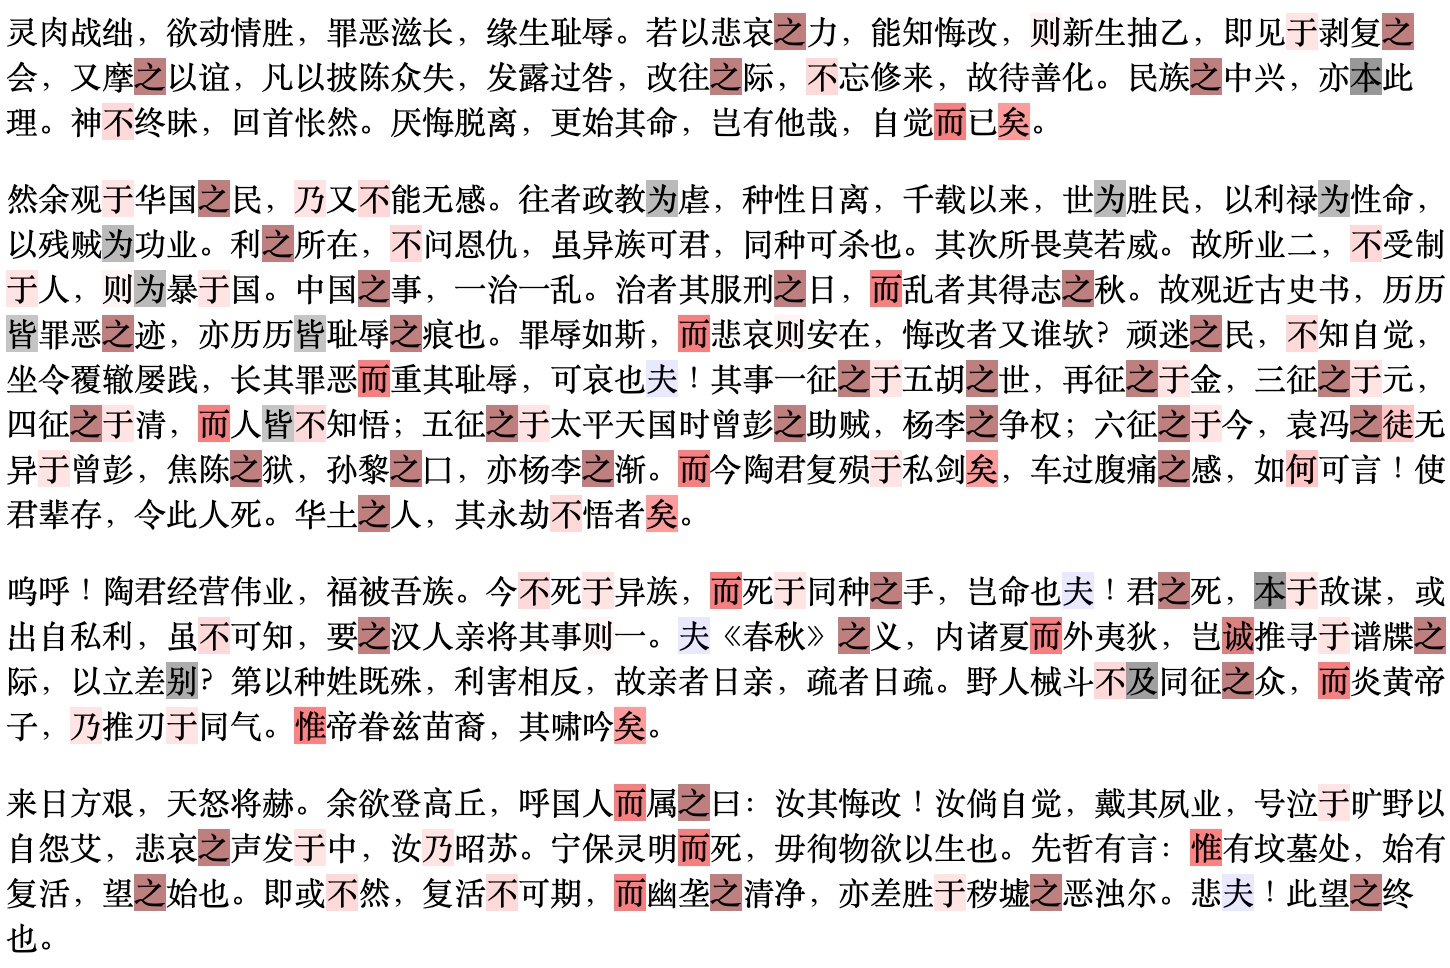
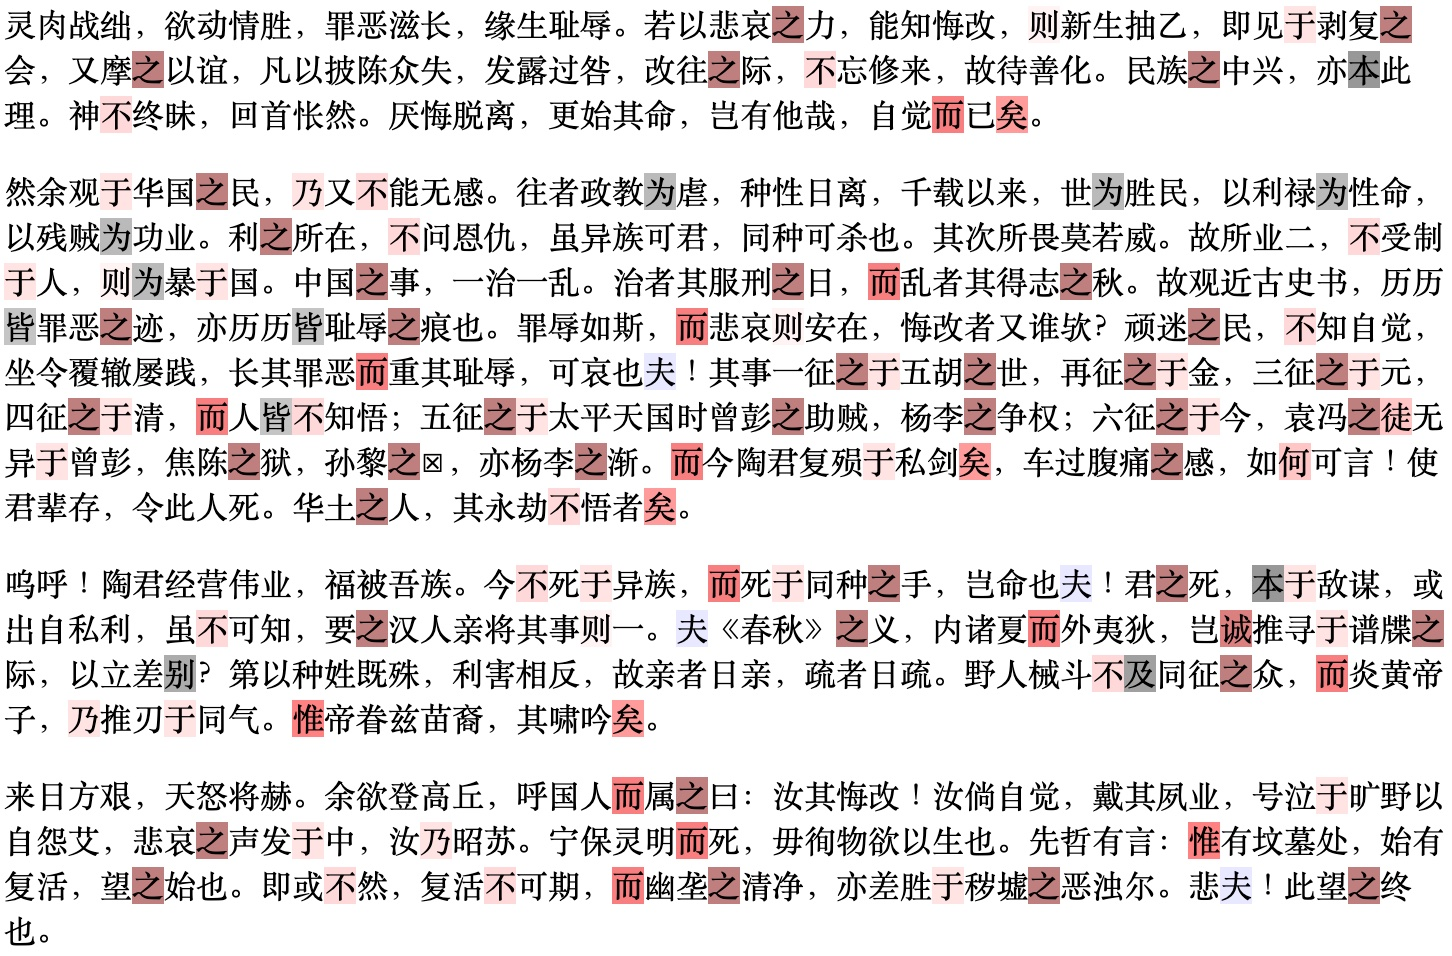
Substitute an unrecognizable character from 口 to ☒

Changed region(s): [[0.0, 0.182, 1.0, 0.546], [0.0, 0.5764, 1.0, 1.0], [0.0, 0.0, 0.9931, 0.1517]]

diff --git a/visualization/望华国篇.html b/visualization/望华国篇.html
@@ -5,7 +5,7 @@
         <meta charset="UTF-8">
     </head>
     <body>
-    <p>灵肉战绌，欲动情胜，罪恶滋长，缘生耻辱。若以悲哀<mark style="background-color:rgba(127, 0, 0, 0.5);">之</mark>力，能知悔改，<mark style="background-color:rgba(255, 233, 233, 0.5);">则</mark>新生抽乙，即见<mark style="background-color:rgba(255, 201, 201, 0.5);">于</mark>剥复<mark style="background-color:rgba(127, 0, 0, 0.5);">之</mark>会，又摩<mark style="background-color:rgba(127, 0, 0, 0.5);">之</mark>以谊，凡以披陈众失，发露过咎，改往<mark style="background-color:rgba(127, 0, 0, 0.5);">之</mark>际，<mark style="background-color:rgba(255, 180, 180, 0.5);">不</mark>忘修来，故待善化。民族<mark style="background-color:rgba(127, 0, 0, 0.5);">之</mark>中兴，亦<mark style="background-color:rgba(49, 49, 49, 0.5);">本</mark>此理。神<mark style="background-color:rgba(255, 180, 180, 0.5);">不</mark>终昧，回首怅然。厌悔脱离，更始其命，岂有他哉，自觉<mark style="background-color:rgba(241, 0, 0, 0.5);">而</mark>已<mark style="background-color:rgba(255, 56, 56, 0.5);">矣</mark>。</p><p></p><p>然余观<mark style="background-color:rgba(255, 201, 201, 0.5);">于</mark>华国<mark style="background-color:rgba(127, 0, 0, 0.5);">之</mark>民，<mark style="background-color:rgba(255, 201, 201, 0.5);">乃</mark>又<mark style="background-color:rgba(255, 180, 180, 0.5);">不</mark>能无感。往者政教<mark style="background-color:rgba(117, 117, 117, 0.5);">为</mark>虐，种性日离，千载以来，世<mark style="background-color:rgba(117, 117, 117, 0.5);">为</mark>胜民，以利禄<mark style="background-color:rgba(117, 117, 117, 0.5);">为</mark>性命，以残贼<mark style="background-color:rgba(117, 117, 117, 0.5);">为</mark>功业。利<mark style="background-color:rgba(127, 0, 0, 0.5);">之</mark>所在，<mark style="background-color:rgba(255, 180, 180, 0.5);">不</mark>问恩仇，虽异族可君，同种可杀也。其次所畏莫若威。故所业二，<mark style="background-color:rgba(255, 180, 180, 0.5);">不</mark>受制<mark style="background-color:rgba(255, 201, 201, 0.5);">于</mark>人，<mark style="background-color:rgba(255, 233, 233, 0.5);">则</mark><mark style="background-color:rgba(117, 117, 117, 0.5);">为</mark>暴<mark style="background-color:rgba(255, 201, 201, 0.5);">于</mark>国。中国<mark style="background-color:rgba(127, 0, 0, 0.5);">之</mark>事，一治一乱。治者其服刑<mark style="background-color:rgba(127, 0, 0, 0.5);">之</mark>日，<mark style="background-color:rgba(241, 0, 0, 0.5);">而</mark>乱者其得志<mark style="background-color:rgba(127, 0, 0, 0.5);">之</mark>秋。故观近古史书，历历<mark style="background-color:rgba(139, 139, 139, 0.5);">皆</mark>罪恶<mark style="background-color:rgba(127, 0, 0, 0.5);">之</mark>迹，亦历历<mark style="background-color:rgba(139, 139, 139, 0.5);">皆</mark>耻辱<mark style="background-color:rgba(127, 0, 0, 0.5);">之</mark>痕也。罪辱如斯，<mark style="background-color:rgba(241, 0, 0, 0.5);">而</mark>悲哀<mark style="background-color:rgba(255, 233, 233, 0.5);">则</mark>安在，悔改者又谁欤？顽迷<mark style="background-color:rgba(127, 0, 0, 0.5);">之</mark>民，<mark style="background-color:rgba(255, 180, 180, 0.5);">不</mark>知自觉，坐令覆辙屡践，长其罪恶<mark style="background-color:rgba(241, 0, 0, 0.5);">而</mark>重其耻辱，可哀也<mark style="background-color:rgba(209, 209, 255, 0.5);">夫</mark>！其事一征<mark style="background-color:rgba(127, 0, 0, 0.5);">之</mark><mark style="background-color:rgba(255, 201, 201, 0.5);">于</mark>五胡<mark style="background-color:rgba(127, 0, 0, 0.5);">之</mark>世，再征<mark style="background-color:rgba(127, 0, 0, 0.5);">之</mark><mark style="background-color:rgba(255, 201, 201, 0.5);">于</mark>金，三征<mark style="background-color:rgba(127, 0, 0, 0.5);">之</mark><mark style="background-color:rgba(255, 201, 201, 0.5);">于</mark>元，四征<mark style="background-color:rgba(127, 0, 0, 0.5);">之</mark><mark style="background-color:rgba(255, 201, 201, 0.5);">于</mark>清，<mark style="background-color:rgba(241, 0, 0, 0.5);">而</mark>人<mark style="background-color:rgba(139, 139, 139, 0.5);">皆</mark><mark style="background-color:rgba(255, 180, 180, 0.5);">不</mark>知悟；五征<mark style="background-color:rgba(127, 0, 0, 0.5);">之</mark><mark style="background-color:rgba(255, 201, 201, 0.5);">于</mark>太平天国时曾彭<mark style="background-color:rgba(127, 0, 0, 0.5);">之</mark>助贼，杨李<mark style="background-color:rgba(127, 0, 0, 0.5);">之</mark>争权；六征<mark style="background-color:rgba(127, 0, 0, 0.5);">之</mark><mark style="background-color:rgba(255, 201, 201, 0.5);">于</mark>今，袁冯<mark style="background-color:rgba(127, 0, 0, 0.5);">之</mark><mark style="background-color:rgba(255, 141, 141, 0.5);">徒</mark>无异<mark style="background-color:rgba(255, 201, 201, 0.5);">于</mark>曾彭，焦陈<mark style="background-color:rgba(127, 0, 0, 0.5);">之</mark>狱，孙黎<mark style="background-color:rgba(127, 0, 0, 0.5);">之</mark>囗，亦杨李<mark style="background-color:rgba(127, 0, 0, 0.5);">之</mark>渐。<mark style="background-color:rgba(241, 0, 0, 0.5);">而</mark>今陶君复殒<mark style="background-color:rgba(255, 201, 201, 0.5);">于</mark>私剑<mark style="background-color:rgba(255, 56, 56, 0.5);">矣</mark>，车过腹痛<mark style="background-color:rgba(127, 0, 0, 0.5);">之</mark>感，如<mark style="background-color:rgba(255, 141, 141, 0.5);">何</mark>可言！使君辈存，令此人死。华土<mark style="background-color:rgba(127, 0, 0, 0.5);">之</mark>人，其永劫<mark style="background-color:rgba(255, 180, 180, 0.5);">不</mark>悟者<mark style="background-color:rgba(255, 56, 56, 0.5);">矣</mark>。</p><p></p><p>呜呼！陶君经营伟业，福被吾族。今<mark style="background-color:rgba(255, 180, 180, 0.5);">不</mark>死<mark style="background-color:rgba(255, 201, 201, 0.5);">于</mark>异族，<mark style="background-color:rgba(241, 0, 0, 0.5);">而</mark>死<mark style="background-color:rgba(255, 201, 201, 0.5);">于</mark>同种<mark style="background-color:rgba(127, 0, 0, 0.5);">之</mark>手，岂命也<mark style="background-color:rgba(209, 209, 255, 0.5);">夫</mark>！君<mark style="background-color:rgba(127, 0, 0, 0.5);">之</mark>死，<mark style="background-color:rgba(49, 49, 49, 0.5);">本</mark><mark style="background-color:rgba(255, 201, 201, 0.5);">于</mark>敌谋，或出自私利，虽<mark style="background-color:rgba(255, 180, 180, 0.5);">不</mark>可知，要<mark style="background-color:rgba(127, 0, 0, 0.5);">之</mark>汉人亲将其事<mark style="background-color:rgba(255, 233, 233, 0.5);">则</mark>一。<mark style="background-color:rgba(209, 209, 255, 0.5);">夫</mark>《春秋》<mark style="background-color:rgba(127, 0, 0, 0.5);">之</mark>义，内诸夏<mark style="background-color:rgba(241, 0, 0, 0.5);">而</mark>外夷狄，岂<mark style="background-color:rgba(183, 0, 0, 0.5);">诚</mark>推寻<mark style="background-color:rgba(255, 201, 201, 0.5);">于</mark>谱牒<mark style="background-color:rgba(127, 0, 0, 0.5);">之</mark>际，以立差<mark style="background-color:rgba(90, 90, 90, 0.5);">别</mark>？第以种姓既殊，利害相反，故亲者日亲，疏者日疏。野人械斗<mark style="background-color:rgba(255, 180, 180, 0.5);">不</mark><mark style="background-color:rgba(66, 66, 66, 0.5);">及</mark>同征<mark style="background-color:rgba(127, 0, 0, 0.5);">之</mark>众，<mark style="background-color:rgba(241, 0, 0, 0.5);">而</mark>炎黄帝子，<mark style="background-color:rgba(255, 201, 201, 0.5);">乃</mark>推刃<mark style="background-color:rgba(255, 201, 201, 0.5);">于</mark>同气。<mark style="background-color:rgba(255, 5, 5, 0.5);">惟</mark>帝眷兹苗裔，其啸吟<mark style="background-color:rgba(255, 56, 56, 0.5);">矣</mark>。</p><p></p><p>来日方艰，天怒将赫。余欲登高丘，呼国人<mark style="background-color:rgba(241, 0, 0, 0.5);">而</mark>属<mark style="background-color:rgba(127, 0, 0, 0.5);">之</mark>曰：汝其悔改！汝倘自觉，戴其夙业，号泣<mark style="background-color:rgba(255, 201, 201, 0.5);">于</mark>旷野以自怨艾，悲哀<mark style="background-color:rgba(127, 0, 0, 0.5);">之</mark>声发<mark style="background-color:rgba(255, 201, 201, 0.5);">于</mark>中，汝<mark style="background-color:rgba(255, 201, 201, 0.5);">乃</mark>昭苏。宁保灵明<mark style="background-color:rgba(241, 0, 0, 0.5);">而</mark>死，毋徇物欲以生也。先哲有言：<mark style="background-color:rgba(255, 5, 5, 0.5);">惟</mark>有坟墓处，始有复活，望<mark style="background-color:rgba(127, 0, 0, 0.5);">之</mark>始也。即或<mark style="background-color:rgba(255, 180, 180, 0.5);">不</mark>然，复活<mark style="background-color:rgba(255, 180, 180, 0.5);">不</mark>可期，<mark style="background-color:rgba(241, 0, 0, 0.5);">而</mark>幽垄<mark style="background-color:rgba(127, 0, 0, 0.5);">之</mark>清净，亦差胜<mark style="background-color:rgba(255, 201, 201, 0.5);">于</mark>秽墟<mark style="background-color:rgba(127, 0, 0, 0.5);">之</mark>恶浊尔。悲<mark style="background-color:rgba(209, 209, 255, 0.5);">夫</mark>！此望<mark style="background-color:rgba(127, 0, 0, 0.5);">之</mark>终也。</p>
+    <p>灵肉战绌，欲动情胜，罪恶滋长，缘生耻辱。若以悲哀<mark style="background-color:rgba(127, 0, 0, 0.5);">之</mark>力，能知悔改，<mark style="background-color:rgba(255, 233, 233, 0.5);">则</mark>新生抽乙，即见<mark style="background-color:rgba(255, 201, 201, 0.5);">于</mark>剥复<mark style="background-color:rgba(127, 0, 0, 0.5);">之</mark>会，又摩<mark style="background-color:rgba(127, 0, 0, 0.5);">之</mark>以谊，凡以披陈众失，发露过咎，改往<mark style="background-color:rgba(127, 0, 0, 0.5);">之</mark>际，<mark style="background-color:rgba(255, 180, 180, 0.5);">不</mark>忘修来，故待善化。民族<mark style="background-color:rgba(127, 0, 0, 0.5);">之</mark>中兴，亦<mark style="background-color:rgba(49, 49, 49, 0.5);">本</mark>此理。神<mark style="background-color:rgba(255, 180, 180, 0.5);">不</mark>终昧，回首怅然。厌悔脱离，更始其命，岂有他哉，自觉<mark style="background-color:rgba(241, 0, 0, 0.5);">而</mark>已<mark style="background-color:rgba(255, 56, 56, 0.5);">矣</mark>。</p><p></p><p>然余观<mark style="background-color:rgba(255, 201, 201, 0.5);">于</mark>华国<mark style="background-color:rgba(127, 0, 0, 0.5);">之</mark>民，<mark style="background-color:rgba(255, 201, 201, 0.5);">乃</mark>又<mark style="background-color:rgba(255, 180, 180, 0.5);">不</mark>能无感。往者政教<mark style="background-color:rgba(117, 117, 117, 0.5);">为</mark>虐，种性日离，千载以来，世<mark style="background-color:rgba(117, 117, 117, 0.5);">为</mark>胜民，以利禄<mark style="background-color:rgba(117, 117, 117, 0.5);">为</mark>性命，以残贼<mark style="background-color:rgba(117, 117, 117, 0.5);">为</mark>功业。利<mark style="background-color:rgba(127, 0, 0, 0.5);">之</mark>所在，<mark style="background-color:rgba(255, 180, 180, 0.5);">不</mark>问恩仇，虽异族可君，同种可杀也。其次所畏莫若威。故所业二，<mark style="background-color:rgba(255, 180, 180, 0.5);">不</mark>受制<mark style="background-color:rgba(255, 201, 201, 0.5);">于</mark>人，<mark style="background-color:rgba(255, 233, 233, 0.5);">则</mark><mark style="background-color:rgba(117, 117, 117, 0.5);">为</mark>暴<mark style="background-color:rgba(255, 201, 201, 0.5);">于</mark>国。中国<mark style="background-color:rgba(127, 0, 0, 0.5);">之</mark>事，一治一乱。治者其服刑<mark style="background-color:rgba(127, 0, 0, 0.5);">之</mark>日，<mark style="background-color:rgba(241, 0, 0, 0.5);">而</mark>乱者其得志<mark style="background-color:rgba(127, 0, 0, 0.5);">之</mark>秋。故观近古史书，历历<mark style="background-color:rgba(139, 139, 139, 0.5);">皆</mark>罪恶<mark style="background-color:rgba(127, 0, 0, 0.5);">之</mark>迹，亦历历<mark style="background-color:rgba(139, 139, 139, 0.5);">皆</mark>耻辱<mark style="background-color:rgba(127, 0, 0, 0.5);">之</mark>痕也。罪辱如斯，<mark style="background-color:rgba(241, 0, 0, 0.5);">而</mark>悲哀<mark style="background-color:rgba(255, 233, 233, 0.5);">则</mark>安在，悔改者又谁欤？顽迷<mark style="background-color:rgba(127, 0, 0, 0.5);">之</mark>民，<mark style="background-color:rgba(255, 180, 180, 0.5);">不</mark>知自觉，坐令覆辙屡践，长其罪恶<mark style="background-color:rgba(241, 0, 0, 0.5);">而</mark>重其耻辱，可哀也<mark style="background-color:rgba(209, 209, 255, 0.5);">夫</mark>！其事一征<mark style="background-color:rgba(127, 0, 0, 0.5);">之</mark><mark style="background-color:rgba(255, 201, 201, 0.5);">于</mark>五胡<mark style="background-color:rgba(127, 0, 0, 0.5);">之</mark>世，再征<mark style="background-color:rgba(127, 0, 0, 0.5);">之</mark><mark style="background-color:rgba(255, 201, 201, 0.5);">于</mark>金，三征<mark style="background-color:rgba(127, 0, 0, 0.5);">之</mark><mark style="background-color:rgba(255, 201, 201, 0.5);">于</mark>元，四征<mark style="background-color:rgba(127, 0, 0, 0.5);">之</mark><mark style="background-color:rgba(255, 201, 201, 0.5);">于</mark>清，<mark style="background-color:rgba(241, 0, 0, 0.5);">而</mark>人<mark style="background-color:rgba(139, 139, 139, 0.5);">皆</mark><mark style="background-color:rgba(255, 180, 180, 0.5);">不</mark>知悟；五征<mark style="background-color:rgba(127, 0, 0, 0.5);">之</mark><mark style="background-color:rgba(255, 201, 201, 0.5);">于</mark>太平天国时曾彭<mark style="background-color:rgba(127, 0, 0, 0.5);">之</mark>助贼，杨李<mark style="background-color:rgba(127, 0, 0, 0.5);">之</mark>争权；六征<mark style="background-color:rgba(127, 0, 0, 0.5);">之</mark><mark style="background-color:rgba(255, 201, 201, 0.5);">于</mark>今，袁冯<mark style="background-color:rgba(127, 0, 0, 0.5);">之</mark><mark style="background-color:rgba(255, 141, 141, 0.5);">徒</mark>无异<mark style="background-color:rgba(255, 201, 201, 0.5);">于</mark>曾彭，焦陈<mark style="background-color:rgba(127, 0, 0, 0.5);">之</mark>狱，孙黎<mark style="background-color:rgba(127, 0, 0, 0.5);">之</mark>☒，亦杨李<mark style="background-color:rgba(127, 0, 0, 0.5);">之</mark>渐。<mark style="background-color:rgba(241, 0, 0, 0.5);">而</mark>今陶君复殒<mark style="background-color:rgba(255, 201, 201, 0.5);">于</mark>私剑<mark style="background-color:rgba(255, 56, 56, 0.5);">矣</mark>，车过腹痛<mark style="background-color:rgba(127, 0, 0, 0.5);">之</mark>感，如<mark style="background-color:rgba(255, 141, 141, 0.5);">何</mark>可言！使君辈存，令此人死。华土<mark style="background-color:rgba(127, 0, 0, 0.5);">之</mark>人，其永劫<mark style="background-color:rgba(255, 180, 180, 0.5);">不</mark>悟者<mark style="background-color:rgba(255, 56, 56, 0.5);">矣</mark>。</p><p></p><p>呜呼！陶君经营伟业，福被吾族。今<mark style="background-color:rgba(255, 180, 180, 0.5);">不</mark>死<mark style="background-color:rgba(255, 201, 201, 0.5);">于</mark>异族，<mark style="background-color:rgba(241, 0, 0, 0.5);">而</mark>死<mark style="background-color:rgba(255, 201, 201, 0.5);">于</mark>同种<mark style="background-color:rgba(127, 0, 0, 0.5);">之</mark>手，岂命也<mark style="background-color:rgba(209, 209, 255, 0.5);">夫</mark>！君<mark style="background-color:rgba(127, 0, 0, 0.5);">之</mark>死，<mark style="background-color:rgba(49, 49, 49, 0.5);">本</mark><mark style="background-color:rgba(255, 201, 201, 0.5);">于</mark>敌谋，或出自私利，虽<mark style="background-color:rgba(255, 180, 180, 0.5);">不</mark>可知，要<mark style="background-color:rgba(127, 0, 0, 0.5);">之</mark>汉人亲将其事<mark style="background-color:rgba(255, 233, 233, 0.5);">则</mark>一。<mark style="background-color:rgba(209, 209, 255, 0.5);">夫</mark>《春秋》<mark style="background-color:rgba(127, 0, 0, 0.5);">之</mark>义，内诸夏<mark style="background-color:rgba(241, 0, 0, 0.5);">而</mark>外夷狄，岂<mark style="background-color:rgba(183, 0, 0, 0.5);">诚</mark>推寻<mark style="background-color:rgba(255, 201, 201, 0.5);">于</mark>谱牒<mark style="background-color:rgba(127, 0, 0, 0.5);">之</mark>际，以立差<mark style="background-color:rgba(90, 90, 90, 0.5);">别</mark>？第以种姓既殊，利害相反，故亲者日亲，疏者日疏。野人械斗<mark style="background-color:rgba(255, 180, 180, 0.5);">不</mark><mark style="background-color:rgba(66, 66, 66, 0.5);">及</mark>同征<mark style="background-color:rgba(127, 0, 0, 0.5);">之</mark>众，<mark style="background-color:rgba(241, 0, 0, 0.5);">而</mark>炎黄帝子，<mark style="background-color:rgba(255, 201, 201, 0.5);">乃</mark>推刃<mark style="background-color:rgba(255, 201, 201, 0.5);">于</mark>同气。<mark style="background-color:rgba(255, 5, 5, 0.5);">惟</mark>帝眷兹苗裔，其啸吟<mark style="background-color:rgba(255, 56, 56, 0.5);">矣</mark>。</p><p></p><p>来日方艰，天怒将赫。余欲登高丘，呼国人<mark style="background-color:rgba(241, 0, 0, 0.5);">而</mark>属<mark style="background-color:rgba(127, 0, 0, 0.5);">之</mark>曰：汝其悔改！汝倘自觉，戴其夙业，号泣<mark style="background-color:rgba(255, 201, 201, 0.5);">于</mark>旷野以自怨艾，悲哀<mark style="background-color:rgba(127, 0, 0, 0.5);">之</mark>声发<mark style="background-color:rgba(255, 201, 201, 0.5);">于</mark>中，汝<mark style="background-color:rgba(255, 201, 201, 0.5);">乃</mark>昭苏。宁保灵明<mark style="background-color:rgba(241, 0, 0, 0.5);">而</mark>死，毋徇物欲以生也。先哲有言：<mark style="background-color:rgba(255, 5, 5, 0.5);">惟</mark>有坟墓处，始有复活，望<mark style="background-color:rgba(127, 0, 0, 0.5);">之</mark>始也。即或<mark style="background-color:rgba(255, 180, 180, 0.5);">不</mark>然，复活<mark style="background-color:rgba(255, 180, 180, 0.5);">不</mark>可期，<mark style="background-color:rgba(241, 0, 0, 0.5);">而</mark>幽垄<mark style="background-color:rgba(127, 0, 0, 0.5);">之</mark>清净，亦差胜<mark style="background-color:rgba(255, 201, 201, 0.5);">于</mark>秽墟<mark style="background-color:rgba(127, 0, 0, 0.5);">之</mark>恶浊尔。悲<mark style="background-color:rgba(209, 209, 255, 0.5);">夫</mark>！此望<mark style="background-color:rgba(127, 0, 0, 0.5);">之</mark>终也。</p>
     </body>
     </html>
     
